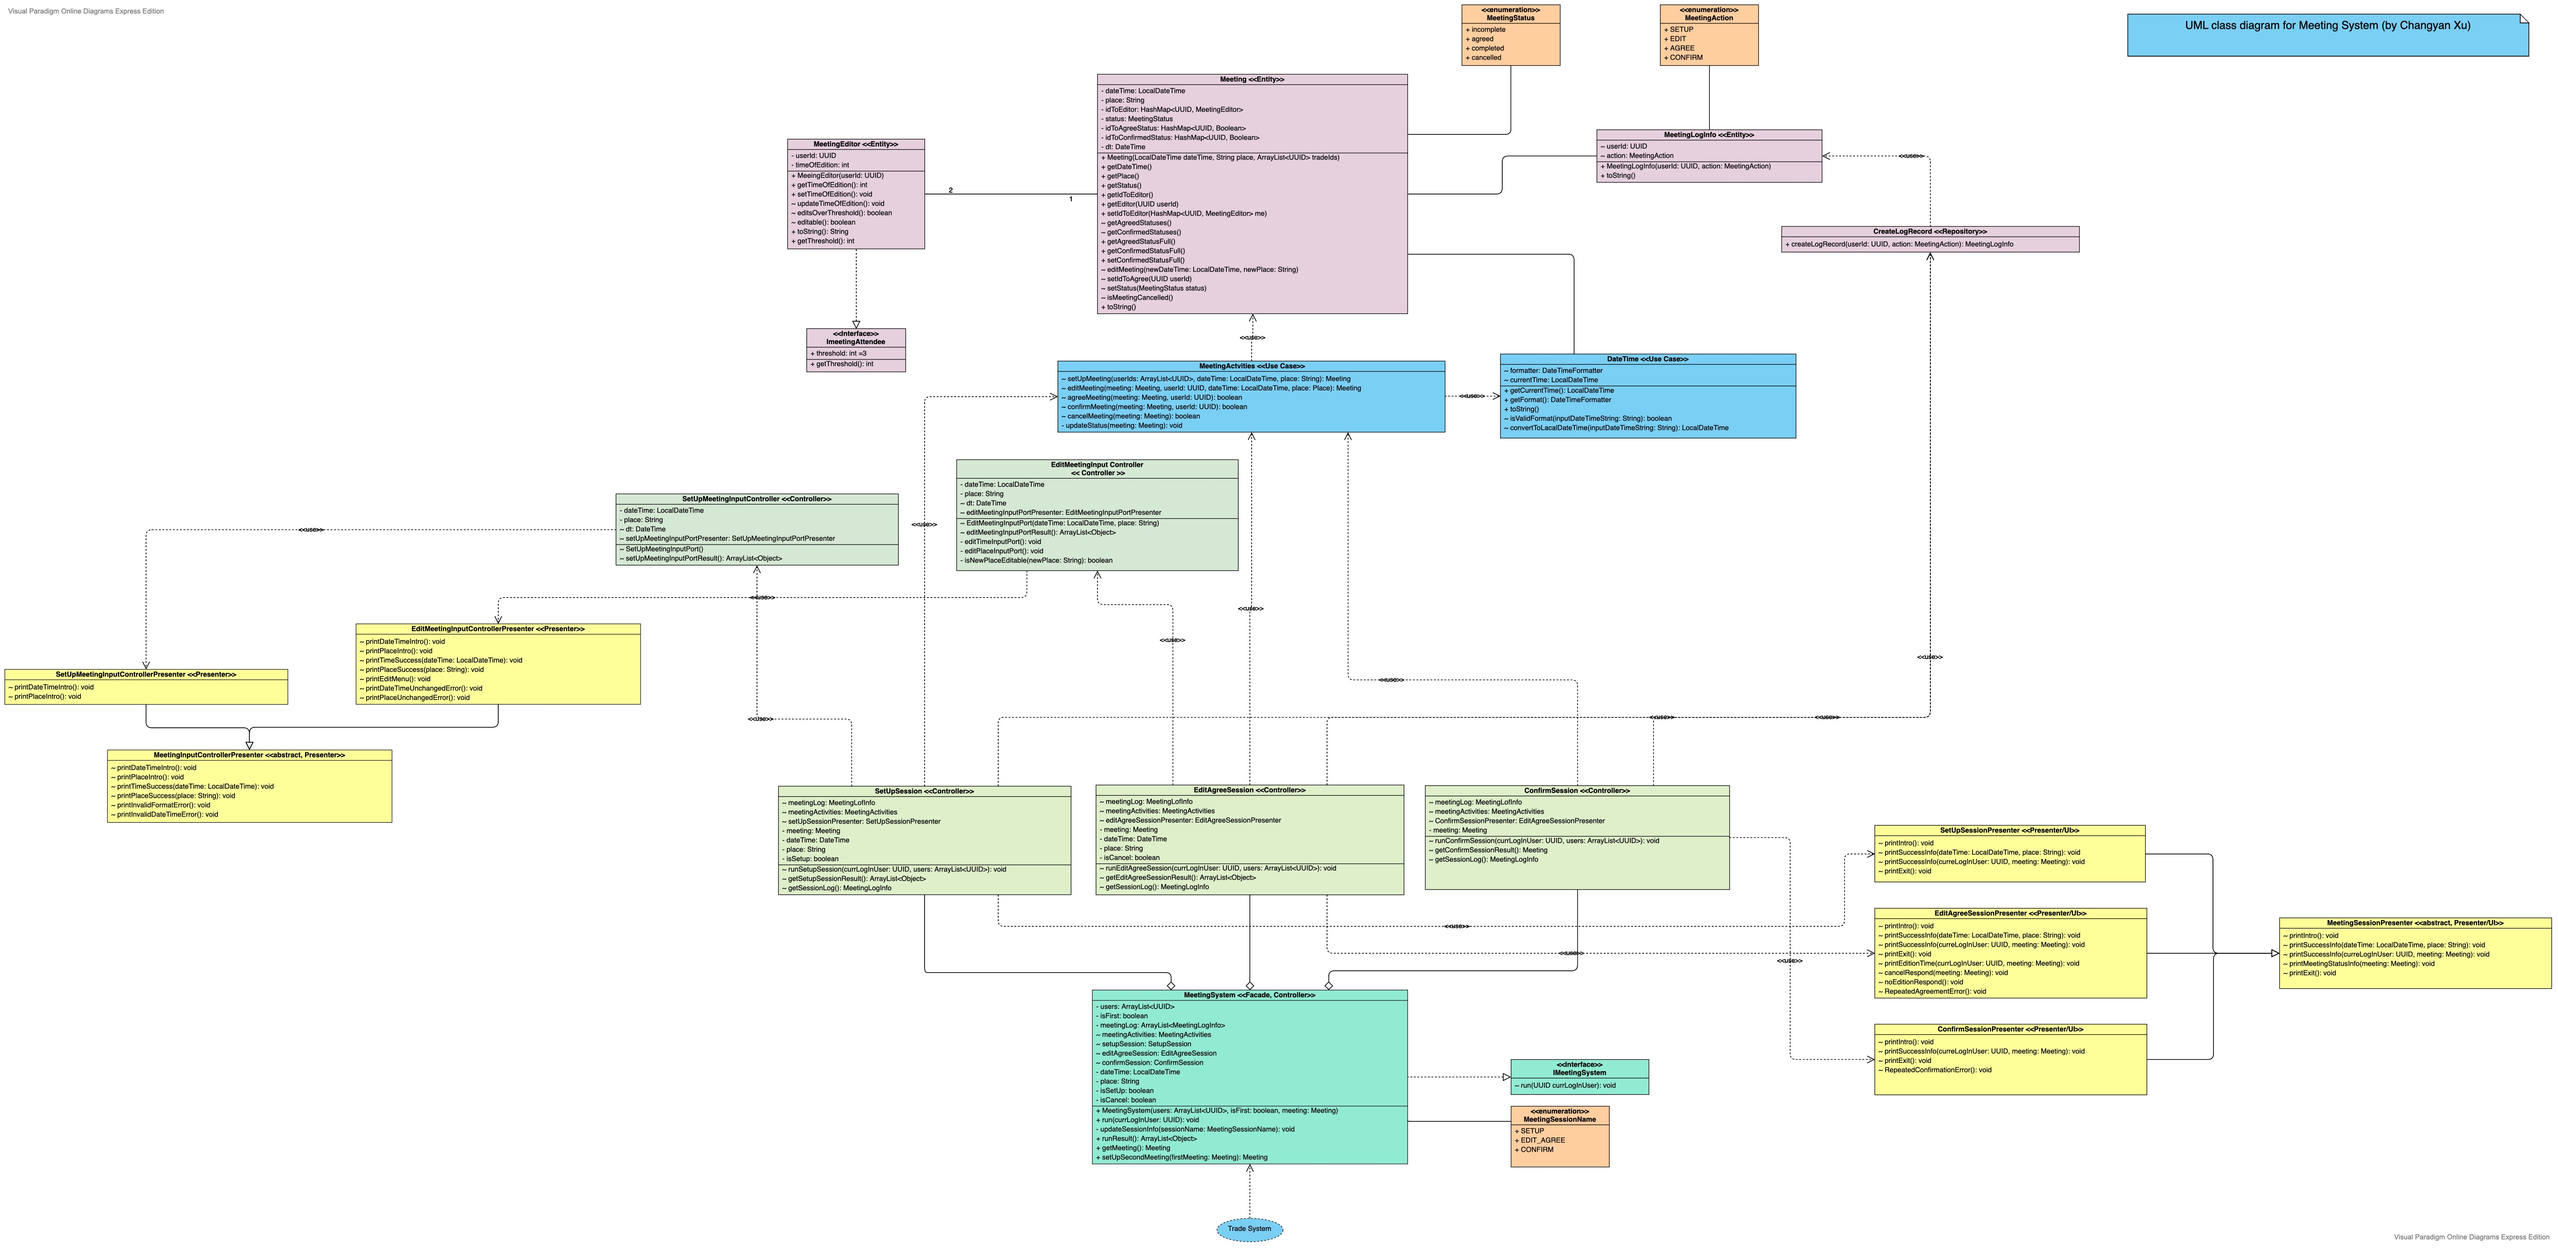
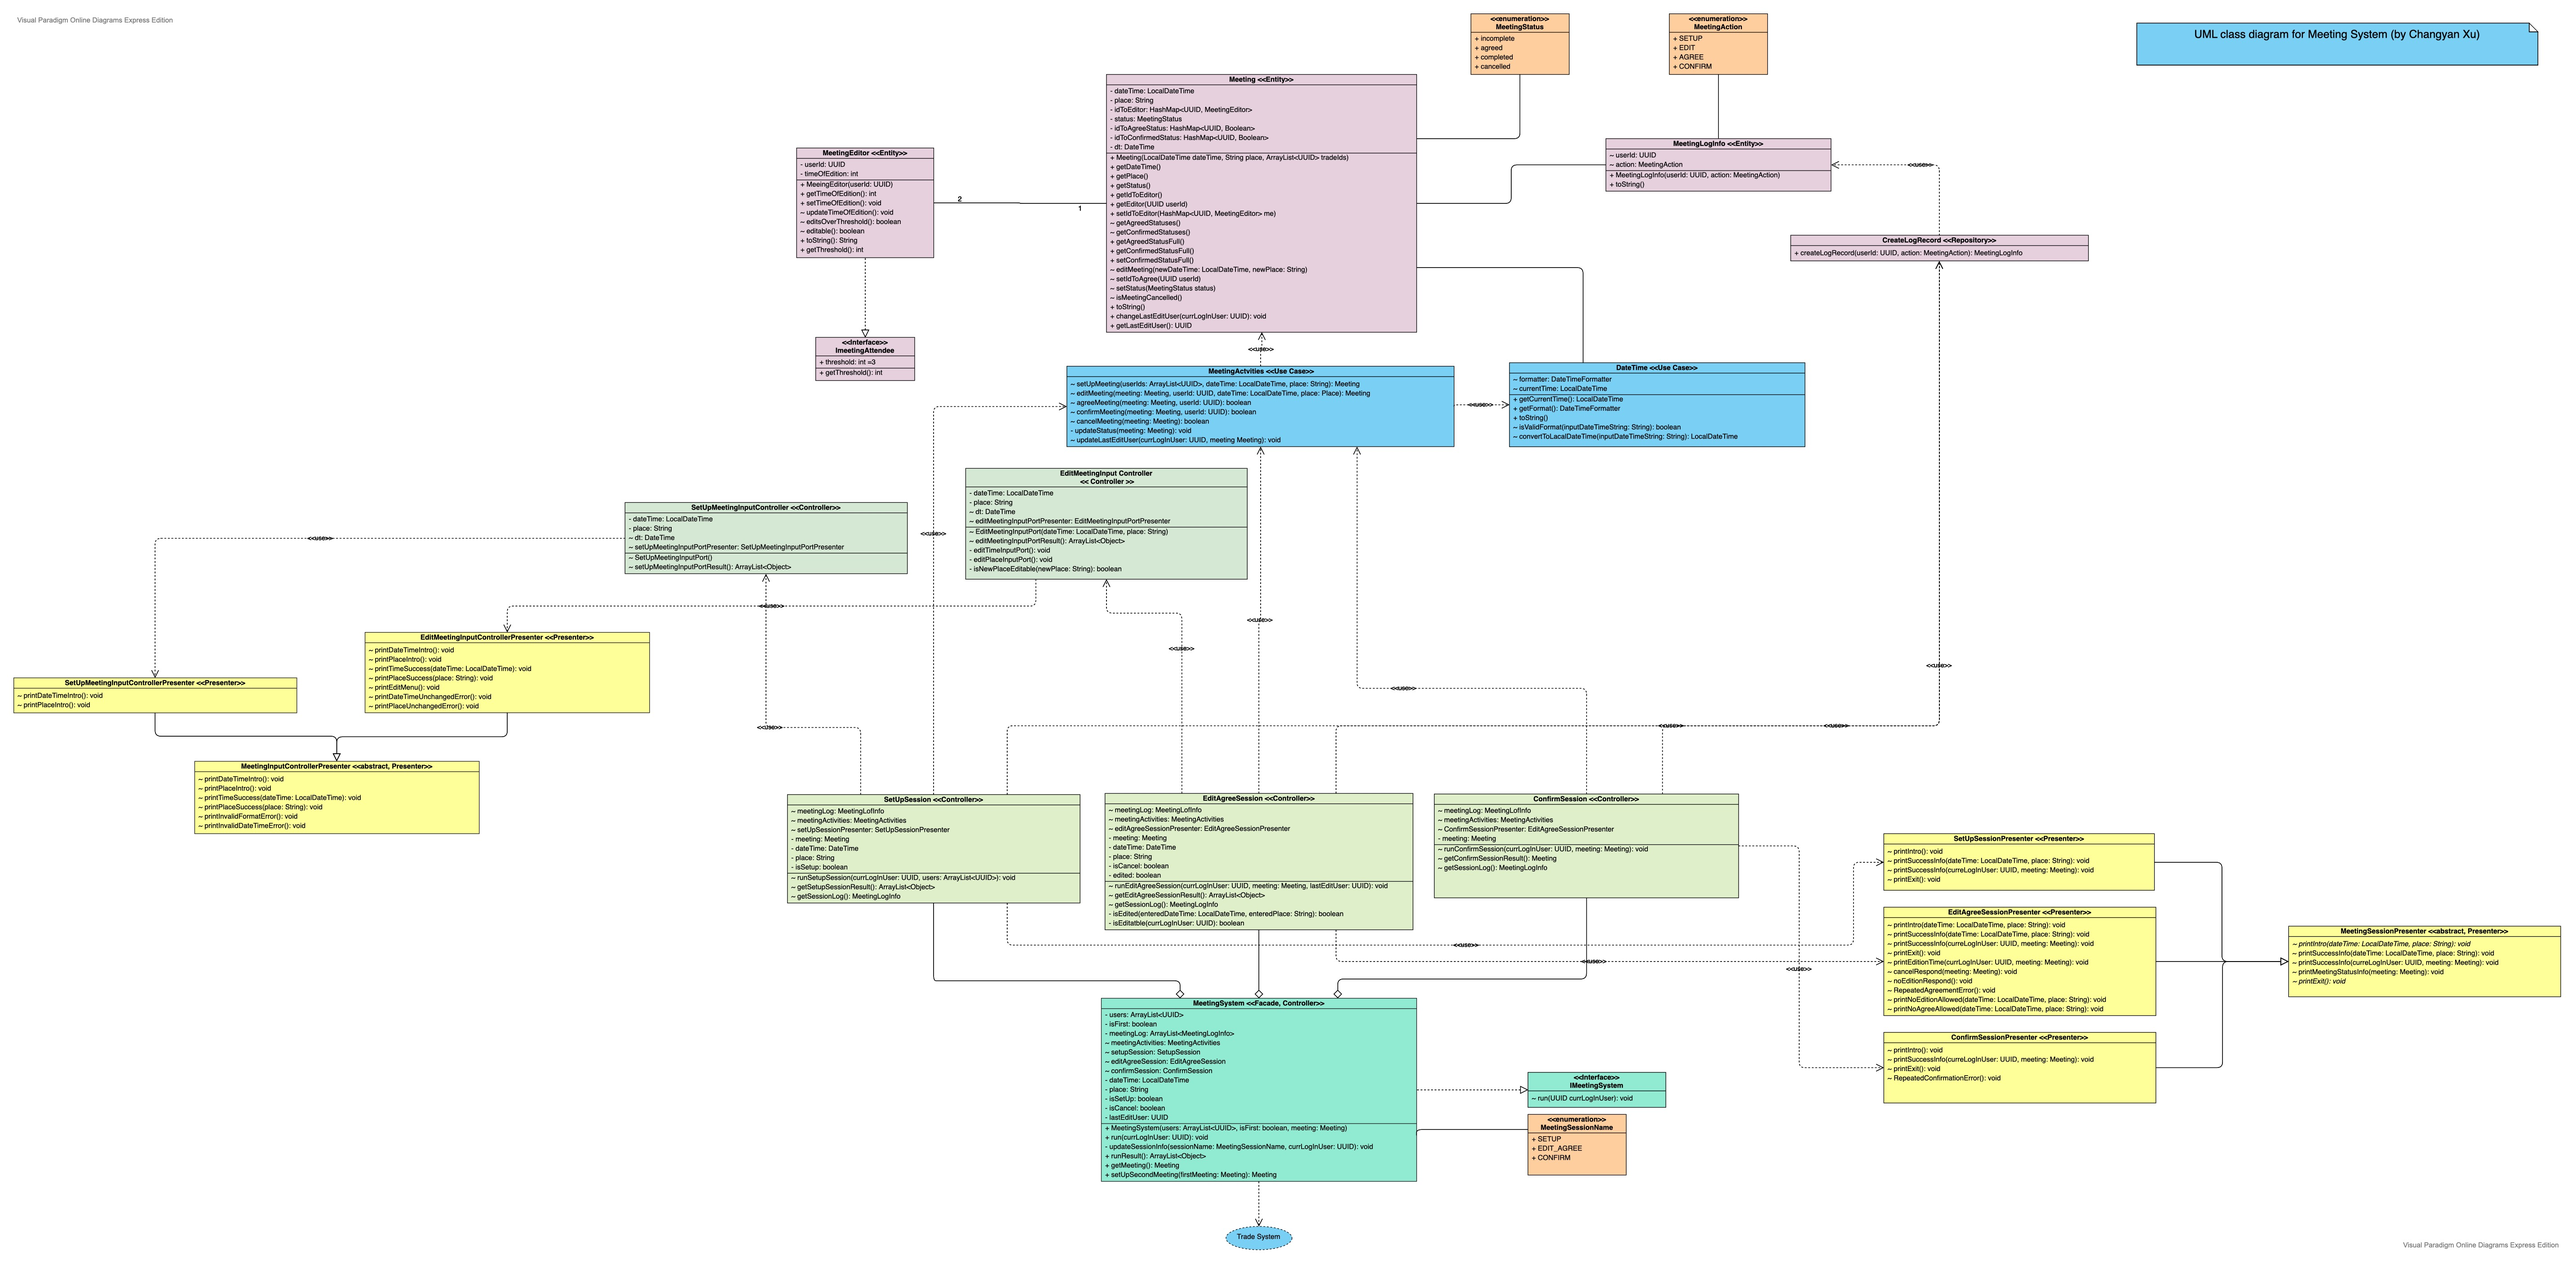
delete unused code, update ms uml (July 14, 16:35, Changyan Xu)

diff --git a/phase1/src/Trade/MeetingSystem/MeetingSystem.java b/phase1/src/Trade/MeetingSystem/MeetingSystem.java
@@ -92,27 +92,6 @@ public class MeetingSystem implements IMeetingSystem {
 
     }
 
-//    public void run(UUID currLogInUser) throws IOException {
-//        // first meeting
-//        if (isFirst) {
-//            if (meeting == null) {
-//                setupSession.runSetupSession(currLogInUser, users);
-//                updateSessionInfo(MeetingSessionName.SETUP, lastEditUser);
-//            } else if (meeting.getStatus().equals(MeetingStatus.incomplete)) {
-//                editAgreeSession.runEditAgreeSession(currLogInUser, meeting, lastEditUser);
-//                updateSessionInfo(MeetingSessionName.EDIT_AGREE, lastEditUser);
-//            } else if (meeting.getStatus().equals(MeetingStatus.agreed)) {
-//                confirmSession.runConfirmSession(currLogInUser, meeting);
-//                updateSessionInfo(MeetingSessionName.CONFIRM, lastEditUser);
-//            }
-//        } else { // only second (temporary) meeting
-//            confirmSession.runConfirmSession(currLogInUser, meeting);
-//            updateSessionInfo(MeetingSessionName.CONFIRM, lastEditUser);
-//        }
-//
-//    }
-
-
     private void updateSessionInfo(MeetingSessionName sessionName, UUID currLogInUser) {
         if (sessionName.equals(MeetingSessionName.SETUP)) {
             ArrayList<Object> result = setupSession.getSetupSessionResult();
